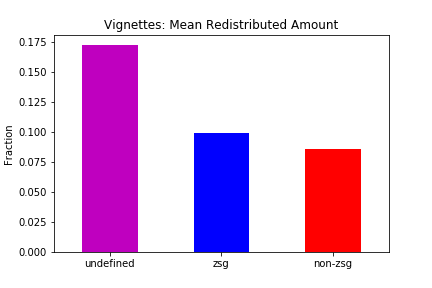
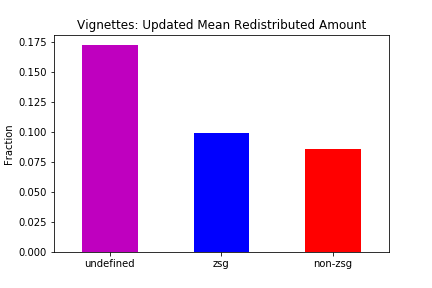
Regression graphs check

Changed region(s): [[0.1806, 0.0625, 0.8426, 0.125]]

diff --git a/statistics/analyse_data.py b/statistics/analyse_data.py
@@ -31,7 +31,7 @@ redist1 = df[df['zero_redist'] == 1 ]
 redist1[redist1['zsg_question_3'] != 0]
 
 #drop less interesting columns
-    drop_cols = []
+drop_cols = []
 drop_cols = [c for c in df.columns if c.lower()[:4] in ['bzsg', 'redi']]
 drop_cols.remove('bzsg_factor')
 drop_cols.remove('redist_factor')
@@ -44,11 +44,15 @@ df['nredist_avg'].min()
 #normalize factors
 df['bzsg_factor']= -df['bzsg_factor']/3.887762
 df['redist_factor'] = df['redist_factor']/1.871011
+
+
 #stata code
-mod = smf.ols(formula='undefined_question_3 ~ bzsg_factor', data=df)
+mod = smf.ols(formula='redist_factor ~ bzsg_factor', data=df)
 
 res = mod.fit()
-print(res.summary())
+textfile = open('statistics/output/regressions/redist_on_bzsg_factors.txt', 'w')
+textfile.write(res.summary().as_latex())
+textfile.close()
 
 
 mod = smf.ols(formula='avg_redist_amount ~ age + C(gender) + C(education) + C(field_of_work) + C(nationality)+ redist_factor + C(political_party) +bzsg_factor ', data=df)
@@ -102,7 +106,7 @@ ax2.get_figure().savefig('statistics/output/graphs/Vigenttes_Mean_Redistributed_
 
 #Vignettes Updated redistributed amount
 ax3 = df[['undefined_question_4', 'zsg_question_4', 'nzsg_question_4']].mean().plot(kind='bar', color=['m', 'blue', 'red' ])
-ax3.
+ax3.set_title('Vignettes: Updated Mean Redistributed Amount')
 ax3.set_ylabel('Fraction')
 ax3.set_xticklabels(vignette_names, rotation=0)
 #ax1.set(xlim=(-1, 3), ylim=(1, 4))
@@ -110,20 +114,20 @@ ax3.figure
 ax3.get_figure().savefig('statistics/output/graphs/Vigenttes_Updated_Mean_Redistributed_Amount.png')
 
 
-#
+#Distribution of reddistributed amount
 for name in vignettes:
-    print(name)
     b = df[df[name+'_question_2'] == 1][name+'_question_3'].plot.hist(bins=16)
+    b.set_title('Redistrubted Amount ' + name)
     b.set_xlabel('Fraction redistributed')
     b.get_figure().savefig('statistics/output/graphs/' + name + '_DistributionOfRedistAmount.png')
     plt.clf()
-df[df['zsg_question_2'] == 1]['zsg_question_3'].plot.hist(bins=7).get_figure().savefig('a.png')
-df[df['nzsg_question_2'] == 1]['nzsg_question_3'].plot.hist(bins=7)
+
+
+
+
+
+
 #averages and correlations
-
-
-
-
 df.groupby('gender').mean()
 df.groupby('nationality').mean()
 df.groupby('age').mean()
@@ -152,9 +156,9 @@ df.groupby('political_party').sum()
 
 import seaborn as sns; sns.set(color_codes=True)
 
-ax = sns.regplot(y='nredist_avg', x='nbzsg_avg', data=df)
+ax = sns.regplot(y='nredist_avg', x='nbzsg_avg', data=df).get_figure().savefig('statistics/output/graphs/redist_on_bzsg_avg.png')
 
-ax1 = sns.regplot(y='redist_factor', x='bzsg_factor', data=df)
+ax1 = sns.regplot(y='redist_factor', x='bzsg_factor', data=df).get_figure().savefig('statistics/output/graphs/redist_on_bzsg_factors.png')
 
 ax2 = sns.regplot(y='zsg_question_3', x='nredist_avg', data=df)
 
